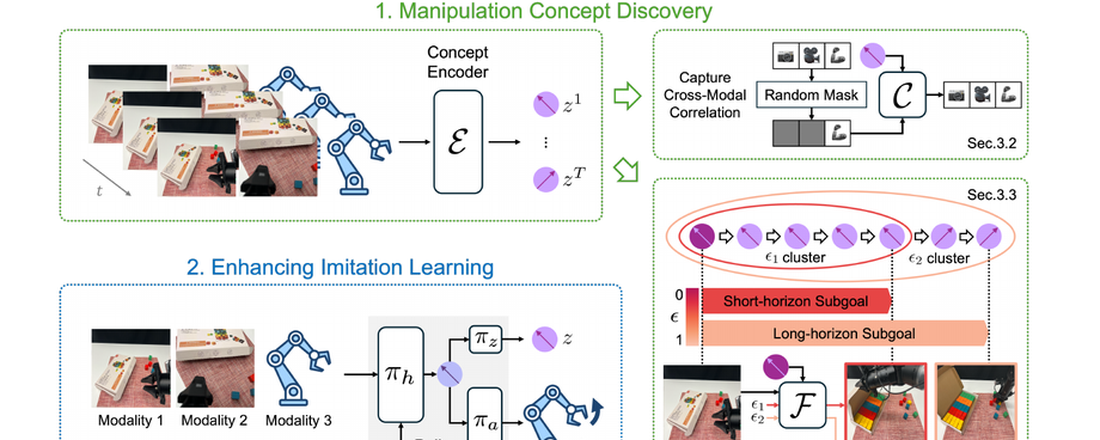
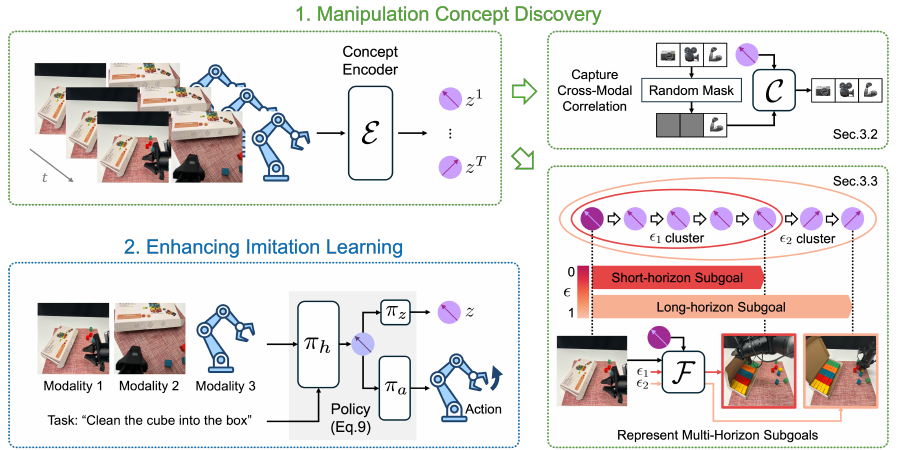
Refresh publication links and data-centric research profile

diff --git a/index.html b/index.html
@@ -20,7 +20,7 @@
   
   <link rel="stylesheet" type="text/css" href="stylesheet.css">
   <link rel="stylesheet" type="text/css" href="css/style.css">
-  <link rel="icon" type="image/png" href="images/icon.jpg">
+  <link rel="icon" type="image/jpeg" href="images/qian.jpg">
 </head>
 
 <body>
@@ -33,7 +33,7 @@
               <p style="text-align:center">
                 <name>Qian Luo (罗谦)</name>
               </p>
-                <p>I am Qian Luo, a third-year PhD student at <a href="https://datascience.hku.hk/">University of Hong Kong</a> advised by <a href="https://yanchaoyang.github.io/">Prof. Yanchao Yang</a>. I am also a long-term research intern at <a href="https://transcengram.com/">TranscEngram</a>.</p>
+                <p>I am Qian Luo, a fourth-year PhD student at <a href="https://datascience.hku.hk/">University of Hong Kong</a> advised by <a href="https://yanchaoyang.github.io/">Prof. Yanchao Yang</a>. I am also a long-term research intern at <a href="https://transcengram.com/">TranscEngram</a>.</p>
 
                 <p>Previously I worked as a research associate at Shanghai Qi Zhi Institute advised by <a href="https://scholar.google.com/citations?user=dusV5HMAAAAJ&hl=en">Prof. Yi Wu</a>. Prior to that, I was a NLP algorithm engineer at Alibaba Group.</p>
 
@@ -77,7 +77,7 @@
               <heading>Research</heading>
               <p>
                 My research interest lies in building Embodied AI systems with less human supervision and better adaptability in the real world.
-                Recently, my work has focused on data-centric robot learning: understanding how <a href="https://arxiv.org/abs/2606.20871">demonstration geometry</a> shapes imitation learning and how <a href="https://arxiv.org/abs/2606.22142">agent-native data lifecycle governance</a> supports reliable robot policy iteration.
+                My current work focuses on data-centric robot learning: understanding how <a href="https://geometric-entropy.github.io/">demonstration geometry</a> shapes imitation learning, and building <a href="https://robolineage.github.io/">agent-driven learning workflows</a> that connect evidence, data, and decisions across robot policy iterations.
                 <!-- Representative papers are <span class="highlight">highlighted</span>. -->
               </p>
             </td>
@@ -92,17 +92,19 @@
             </td>
             <td class="tdcontent" style="padding:20px;width:65%;vertical-align:center">
               <p>
-                <a href="https://arxiv.org/abs/2606.22142">
+                <a href="https://robolineage.github.io/">
                   <papertitle>RoboLineage: Agent-Native Data Lifecycle Governance Across Robot Policy Iterations</papertitle>
                 </a>
                 <br>
                 <strong>Qian Luo</strong>, Wentao Guo, Zhennan Qin, Nanchun Guo, Yunhan Zhao, Yi Ma, Yanchao Yang
                 <br>
-                <em>arXiv</em>, 2026
+                <em>CoRL</em>, 2026
                 <br>
               </p>
               <div class="paper" id="robolineage2026">
-                <a href="https://arxiv.org/abs/2606.22142">paper</a> &nbsp/&nbsp
+                <a href="https://robolineage.github.io/assets/paper/robolineage_corl2026.pdf">paper</a> &nbsp/&nbsp
+                <a href="https://arxiv.org/abs/2606.22142">arXiv</a> &nbsp/&nbsp
+                <a href="https://github.com/robolineage/robolineage">code</a> &nbsp/&nbsp
                 <a href="https://robolineage.github.io/">project page</a>
               </div>
             </td>
@@ -124,7 +126,8 @@
                 <br>
               </p>
               <div class="paper" id="geometricentropy2026">
-                <a href="https://arxiv.org/abs/2606.20871">paper</a> &nbsp/&nbsp
+                <a href="https://geometric-entropy.github.io/assets/paper/geometric_entropy_iros2026.pdf">paper</a> &nbsp/&nbsp
+                <a href="https://arxiv.org/abs/2606.20871">arXiv</a> &nbsp/&nbsp
                 <a href="https://geometric-entropy.github.io/">project page</a>
               </div>
             </td>

diff --git a/docs/superpowers/plans/2026-11-07-publication-update.md b/docs/superpowers/plans/2026-11-07-publication-update.md
@@ -1,0 +1,45 @@
+# Publication Website Update Implementation Plan
+
+> Execute the user-approved update inline, using the existing static sites and GitHub Pages repositories.
+
+**Goal:** Synchronize the personal homepage, RoboLineage, and Geometric Entropy with their camera-ready papers.
+
+**Architecture:** Keep each site's existing HTML/CSS and assets. Host the final PDFs on the project sites, retain version-independent arXiv links, and link the personal publication entries to both.
+
+**Tech Stack:** Static HTML/CSS/JavaScript, Python/Pillow for source-figure crops, GitHub Pages.
+
+**Spec:** Approved conversation: fourth-year PhD, RoboLineage CoRL 2026, Code on the project site and personal entry, no extra code disclaimers, current camera-ready PDFs and factual experimental results.
+
+## Constraints
+
+- Preserve older publication entries, including contribution markers.
+- Preserve source-image proportions and labels; use original figures and rollout frames.
+- Keep simple Code links. No unverified Geometric Entropy repository or release promise.
+- Use RoboLineage's 47-page final PDF and Geometric Entropy's final 8-page PDF.
+- Do not invent proceedings metadata, DOI, presentation awards, or causal claims.
+
+## Review Focus
+
+- Every local PDF, image, video, anchor, and downloadable slide resolves.
+- Paper downloads match the selected final PDFs, not cached arXiv v1.
+- Review accuracy, rejected-rollout leakage, diagnostic rounds, final tests, and active human time retain their correct denominators and scope.
+- Narrow screens contain tables and navigation without page-level overflow.
+- Old publication HTML is unchanged and source figures are not stretched or clipped.
+
+## Tasks
+
+- [x] RoboLineage: CoRL venue, final PDF, full-workflow narrative, review results, precise effort numbers, and final recollection tests; retain Code and existing demonstrations.
+- [x] Geometric Entropy: final PDF and affiliation, alignment/metric explanation, mastery interpretation, paper-backed diagrams, citation, and downloadable presentation.
+- [x] Personal homepage: fourth-year, research sentence, CoRL venue, final paper/arXiv/code links, and naturally proportioned thumbnails.
+- [x] Validate resources, source values, legacy entries, PDF contents, desktop/mobile rendering and gallery interaction; obtain an independent review.
+- [ ] Commit and push each site; verify deployed HTML and PDF hashes.
+
+## Execution Notes
+
+- Work in the existing user-selected repositories. The user explicitly approved updating and pushing them; no additional worktree or publishing approval is needed.
+- These are static content and asset changes. Use focused resource/content validation and browser QA rather than introducing a test framework.
+- The replacement submission may precede the public arXiv announcement. Local final PDFs remain the authority for this release.
+- Resource/content checks pass for all sites. The 11 legacy publication rows are unchanged. Hosted PDFs match the selected source SHA256 hashes and contain 47 and 8 pages.
+- Browser checks at 360, 390, 768 and 1280 pixels find no page-level horizontal overflow or broken images. The qualitative gallery switches both by mouse and keyboard.
+- Independent review identified overgeneralized Geometric Entropy claims; these now distinguish measured settings from the mastery/ambiguity interpretation.
+- Read-only slide audit: the October 31 RoboLineage PPTX retains old table images and differs from the final paper. It is not part of this publication update and remains untouched.
